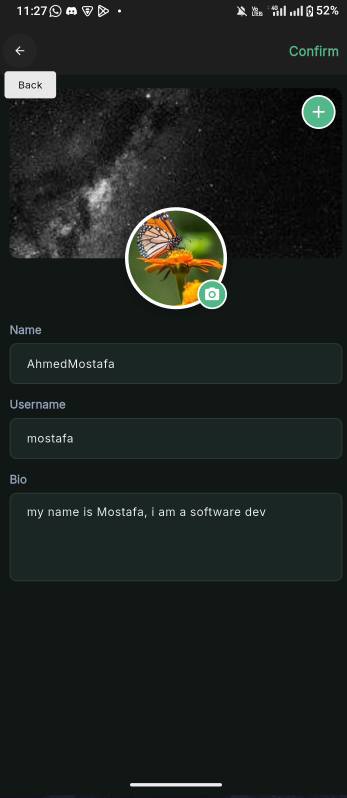
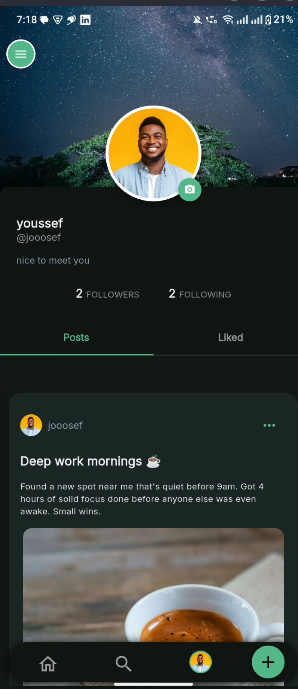
docs: add new screenshots and reorder layout (Login first)
- Added 7 new screenshots: comments-light, discover-light, drawer-light, edit-post (dark/light), edit-profile (dark/light)
- Reordered tables: Login | Feed | Profile (left to right)
- Both dark and light modes now have matching 3x3 grids

diff --git a/README.md b/README.md
@@ -12,23 +12,31 @@ A Flutter social media app I built to practice shipping a full feature end-to-en
 
 ### Dark Mode
 
-| Feed | Profile | Login |
+| Login | Feed | Profile |
 |:---:|:---:|:---:|
-| <img src="project_showcase/screenshots/home-dark.png" width="250"/> | <img src="project_showcase/screenshots/profile-dark.png" width="250"/> | <img src="project_showcase/screenshots/Login-dark.png" width="250"/> |
+| <img src="project_showcase/screenshots/Login-dark.png" width="250"/> | <img src="project_showcase/screenshots/home-dark.png" width="250"/> | <img src="project_showcase/screenshots/profile-dark.png" width="250"/> |
 
 | Discover | Comments | Followers |
 |:---:|:---:|:---:|
 | <img src="project_showcase/screenshots/discover-dark.png" width="250"/> | <img src="project_showcase/screenshots/comments.png" width="250"/> | <img src="project_showcase/screenshots/followers-dark.png" width="250"/> |
 
+| Edit Post | Edit Profile | Drawer |
+|:---:|:---:|:---:|
+| <img src="project_showcase/screenshots/edit-post-dark.png" width="250"/> | <img src="project_showcase/screenshots/edit-profile-dark.png" width="250"/> | <img src="project_showcase/screenshots/drawer-dark.png" width="250"/> |
+
 ### Light Mode
 
-| Feed | Profile | Login |
+| Login | Feed | Profile |
 |:---:|:---:|:---:|
-| <img src="project_showcase/screenshots/home-light.png" width="250"/> | <img src="project_showcase/screenshots/profile-light.png" width="250"/> | <img src="project_showcase/screenshots/Login-light.png" width="250"/> |
+| <img src="project_showcase/screenshots/Login-light.png" width="250"/> | <img src="project_showcase/screenshots/home-light.png" width="250"/> | <img src="project_showcase/screenshots/profile-light.png" width="250"/> |
 
-| Followers | Drawer |
-|:---:|:---:|
-| <img src="project_showcase/screenshots/followers-light.png" width="250"/> | <img src="project_showcase/screenshots/drawer.png" width="250"/> |
+| Discover | Comments | Followers |
+|:---:|:---:|:---:|
+| <img src="project_showcase/screenshots/discover-light.png" width="250"/> | <img src="project_showcase/screenshots/comments-light.png" width="250"/> | <img src="project_showcase/screenshots/followers-light.png" width="250"/> |
+
+| Edit Post | Edit Profile | Drawer |
+|:---:|:---:|:---:|
+| <img src="project_showcase/screenshots/edit-post-light.png" width="250"/> | <img src="project_showcase/screenshots/edit-profile-light.png" width="250"/> | <img src="project_showcase/screenshots/drawer-light.png" width="250"/> |
 
 ## Features
 
